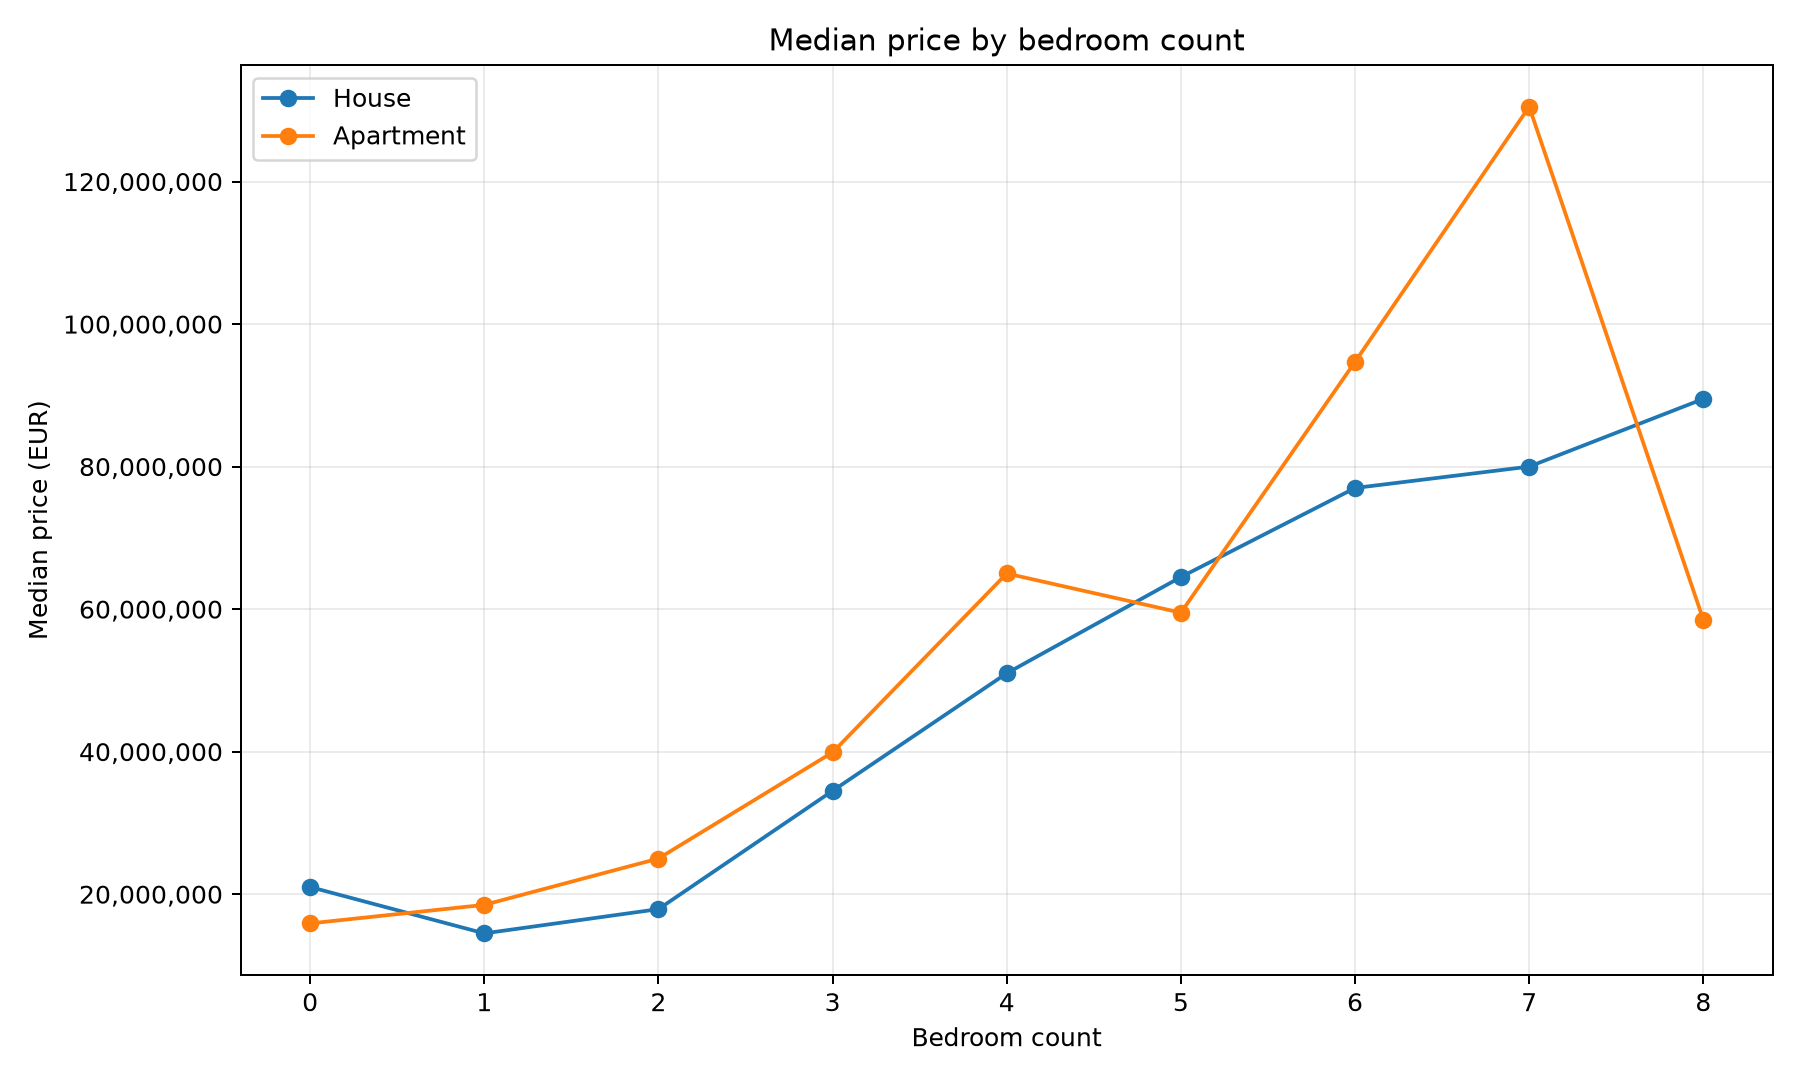
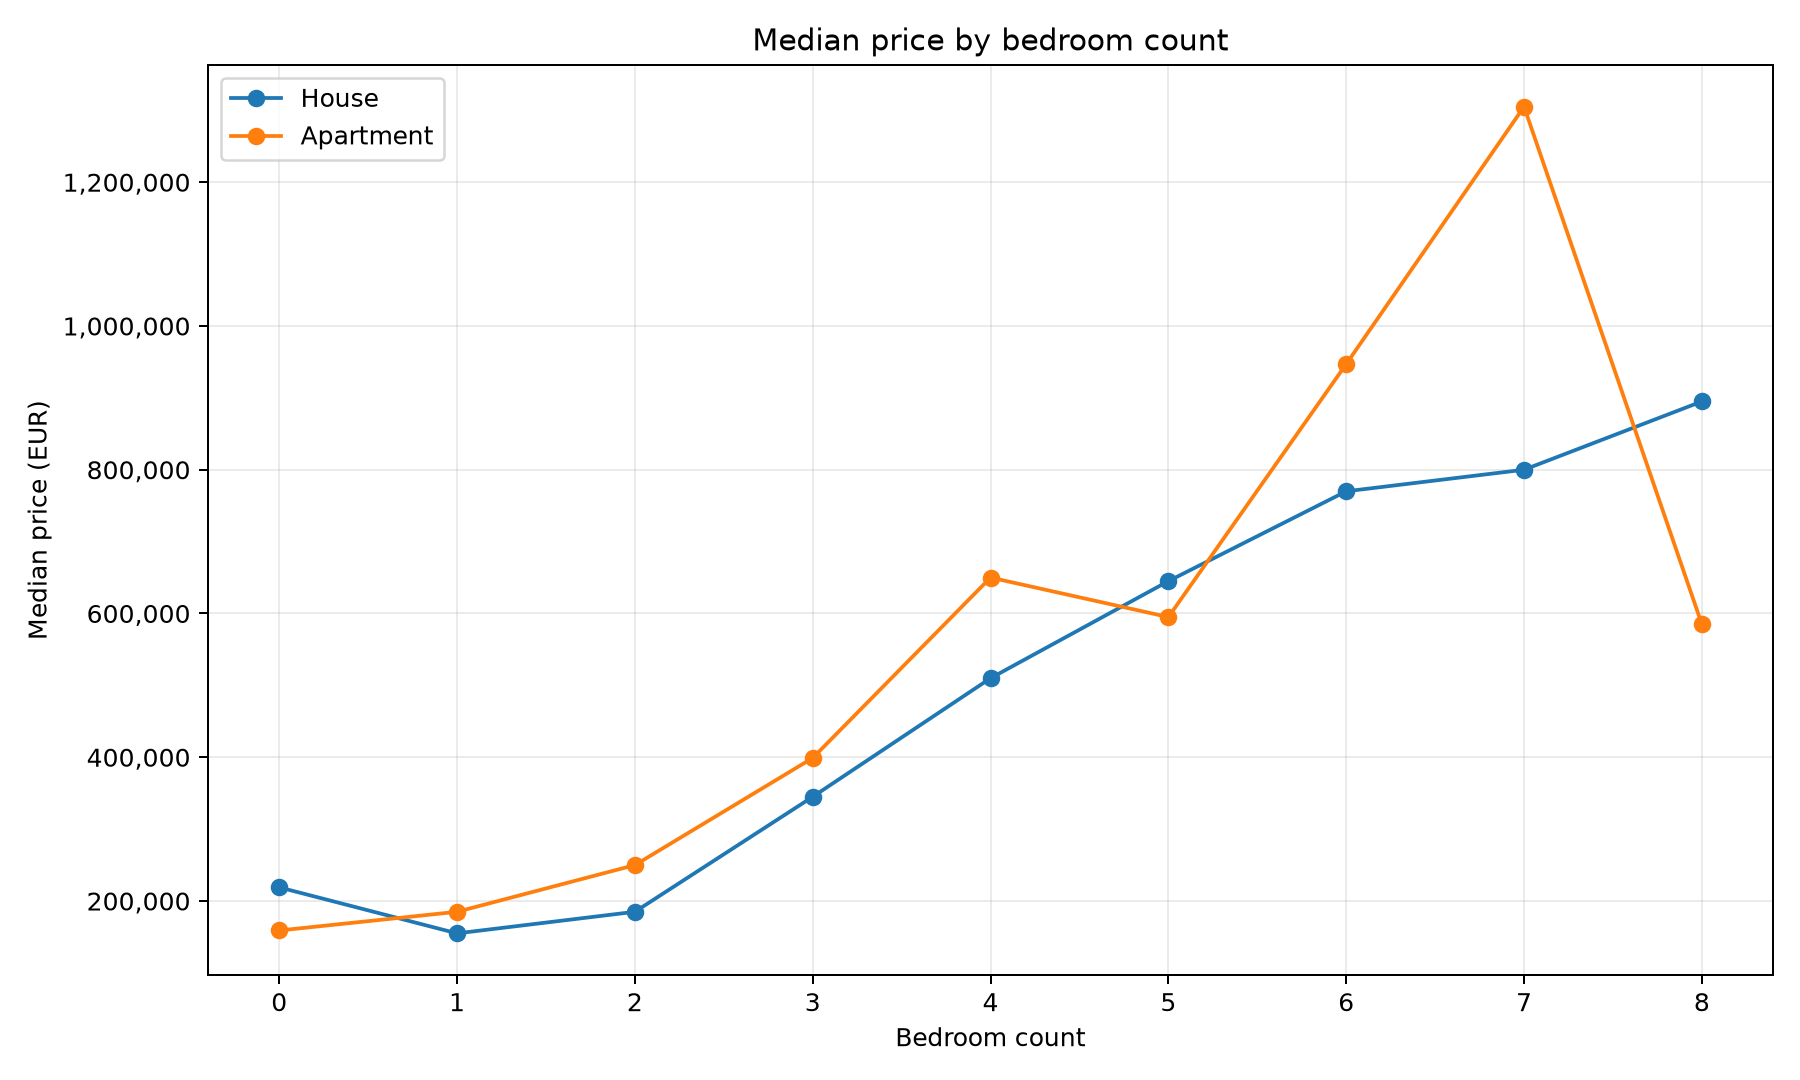
Added more graphs for creative insight

diff --git a/src/graph_price_surface_outliers.py b/src/graph_price_surface_outliers.py
@@ -1,16 +1,12 @@
 import pandas as pd
 import matplotlib.pyplot as plt
 from matplotlib.ticker import FuncFormatter
-#exemple import
-#from src.graph_price_surface_outliers import (
-    #make_price_vs_surface_graph,
-    #make_bedrooms_vs_price_graph,
-    #make_outlier_graph,
-
-
-PRICE_SURFACE_IMAGE = "../images/price_vs_livable_surface.png"
-BEDROOM_IMAGE = "../images/bedrooms_vs_price.png"
-OUTLIER_IMAGE = "../images/outlier_boxplots.png"
+PRICE_SURFACE_IMAGE = "./images/price_vs_livable_surface.png"
+BEDROOM_IMAGE = "./images/bedrooms_vs_price.png"
+OUTLIER_IMAGE = "./images/outlier_boxplots.png"
+PROPERTY_STATE_M2_IMAGE = "./images/property_state_price_per_m2.png"
+CONVENIENCE_SPACE_IMAGE = "./images/convenience_vs_space.png"
+BUILD_YEAR_M2_IMAGE = "./images/build_year_price_per_m2.png"
 
 
 def make_price_vs_surface_graph(df):
@@ -178,4 +174,228 @@ def make_outlier_graph(df):
     plt.grid(alpha=0.25, axis="x")
     plt.tight_layout()
     plt.savefig(OUTLIER_IMAGE, dpi=180)
+    plt.close()
+
+
+def make_property_state_price_m2_graph(df):
+    """Generate a bar chart of median price per M2 by property state.
+
+    Input:
+        df: pandas DataFrame with price, livable_surface, property_state, and property_type columns.
+    """
+    def euro_tick(value, _):
+        return f"{int(value):,}"
+
+    # Keep rows where we have the values needed for this graph.
+    graph_df = df[["price", "livable_surface", "property_state", "property_type"]].dropna().copy()
+
+    # Keep only positive numbers so the price per M2 calculation makes sense.
+    graph_df = graph_df[(graph_df["price"] > 0) & (graph_df["livable_surface"] > 0)]
+
+    # Price per M2 lets us compare expensive and cheap areas more fairly.
+    graph_df["price_per_m2"] = graph_df["price"] / graph_df["livable_surface"]
+
+    # Keep realistic values so one strange listing does not dominate the scale.
+    graph_df = graph_df[(graph_df["price_per_m2"] > 300) & (graph_df["price_per_m2"] < 20000)]
+
+    # Group by property state and property type.
+    # Median is useful here because a few luxury listings will not dominate the result.
+    grouped_df = (
+        graph_df.groupby(["property_state", "property_type"])["price_per_m2"]
+        .median()
+        .reset_index()
+    )
+
+    # Put the states in a logical order from worst condition to best condition.
+    order = [
+        "To be renovated",
+        "To renovate",
+        "Normal",
+        "Fully renovated",
+        "Excellent",
+        "New",
+    ]
+    grouped_df["property_state"] = pd.Categorical(
+        grouped_df["property_state"],
+        categories=order,
+        ordered=True,
+    )
+
+    # Reshape the grouped data so houses and apartments become separate bars.
+    grouped_df = grouped_df.dropna().sort_values("property_state")
+    pivot_df = grouped_df.pivot(
+        index="property_state",
+        columns="property_type",
+        values="price_per_m2",
+    )
+
+    ax = pivot_df.plot(kind="bar", figsize=(10, 6), color=["#ff7f0e", "#1f77b4"])
+    ax.set_title("Median price per M2 by property state")
+    ax.set_xlabel("Property state")
+    ax.set_ylabel("Median price per M2 (EUR)")
+    ax.yaxis.set_major_formatter(FuncFormatter(euro_tick))
+    ax.yaxis.offsetText.set_visible(False)
+    plt.xticks(rotation=35, ha="right")
+    plt.grid(alpha=0.25, axis="y")
+    plt.legend(title="Property type")
+    plt.tight_layout()
+    plt.savefig(PROPERTY_STATE_M2_IMAGE, dpi=180)
+    plt.close()
+
+
+def make_convenience_vs_space_graph(df):
+    """Generate a graph comparing supermarket distance, price per M2, and surface.
+
+    Input:
+        df: pandas DataFrame with price, livable_surface, and supermarket_distance_m columns.
+    """
+    def euro_tick(value, _):
+        return f"{int(value):,}"
+
+    # Keep rows where we have the values needed for this graph.
+    graph_df = df[["price", "livable_surface", "supermarket_distance_m"]].dropna().copy()
+
+    # Keep only positive numbers so the price per M2 calculation makes sense.
+    graph_df = graph_df[(graph_df["price"] > 0) & (graph_df["livable_surface"] > 0)]
+
+    # Price per M2 lets us compare convenience and space on a fairer basis.
+    graph_df["price_per_m2"] = graph_df["price"] / graph_df["livable_surface"]
+
+    # Keep realistic values so one strange listing does not dominate the scale.
+    graph_df = graph_df[(graph_df["price_per_m2"] > 300) & (graph_df["price_per_m2"] < 20000)]
+
+    # Split the properties into 4 groups from closest to farthest from a supermarket.
+    graph_df["distance_group"] = pd.qcut(
+        graph_df["supermarket_distance_m"],
+        4,
+        labels=["Closest", "Close", "Far", "Farthest"],
+    )
+
+    # For each distance group, keep the median price per M2, surface, and distance.
+    grouped_df = (
+        graph_df.groupby("distance_group", observed=True)
+        .agg(
+            price_per_m2=("price_per_m2", "median"),
+            livable_surface=("livable_surface", "median"),
+            distance=("supermarket_distance_m", "median"),
+        )
+        .reset_index()
+    )
+
+    fig, ax1 = plt.subplots(figsize=(10, 6))
+    ax2 = ax1.twinx()
+
+    # Bars show median price per M2.
+    ax1.bar(
+        grouped_df["distance_group"],
+        grouped_df["price_per_m2"],
+        color="#4c78a8",
+        alpha=0.8,
+        label="Median price per M2",
+    )
+
+    # The line shows median livable surface on a second axis.
+    ax2.plot(
+        grouped_df["distance_group"],
+        grouped_df["livable_surface"],
+        marker="o",
+        color="#f58518",
+        linewidth=2,
+        label="Median livable surface",
+    )
+
+    # Show the median distance on top of each bar to make the quartiles easier to read.
+    for i, row in grouped_df.iterrows():
+        ax1.text(i, row["price_per_m2"], f"{row['distance']:.0f} m", ha="center", va="bottom")
+
+    ax1.set_title("Convenience vs space")
+    ax1.set_xlabel("Distance to nearest supermarket")
+    ax1.set_ylabel("Median price per M2 (EUR)")
+    ax2.set_ylabel("Median livable surface (m2)")
+    ax1.yaxis.set_major_formatter(FuncFormatter(euro_tick))
+    ax1.yaxis.offsetText.set_visible(False)
+    ax1.grid(alpha=0.25, axis="y")
+    fig.legend(loc="upper right", bbox_to_anchor=(0.9, 0.9))
+    plt.tight_layout()
+    plt.savefig(CONVENIENCE_SPACE_IMAGE, dpi=180)
+    plt.close()
+
+
+def make_build_year_price_m2_graph(df):
+    """Generate a graph comparing build period, price per M2, and energy consumption.
+
+    Input:
+        df: pandas DataFrame with price, livable_surface, build_year, and energy_consumption_kWh/m2/year columns.
+    """
+    def euro_tick(value, _):
+        return f"{int(value):,}"
+
+    # Keep rows where we have the values needed for this graph.
+    graph_df = df[
+        ["price", "livable_surface", "build_year", "energy_consumption_kWh/m2/year"]
+    ].dropna().copy()
+
+    # Keep only rows where price, surface, and build year make sense.
+    graph_df = graph_df[
+        (graph_df["price"] > 0)
+        & (graph_df["livable_surface"] > 0)
+        & (graph_df["build_year"] >= 1800)
+        & (graph_df["build_year"] <= 2026)
+    ]
+
+    # Price per M2 lets us compare old and new properties more fairly.
+    graph_df["price_per_m2"] = graph_df["price"] / graph_df["livable_surface"]
+
+    # Keep realistic values so one strange listing does not dominate the scale.
+    graph_df = graph_df[(graph_df["price_per_m2"] > 300) & (graph_df["price_per_m2"] < 20000)]
+
+    # Group build years into broad periods so the trend is easier to read.
+    graph_df["build_period"] = pd.cut(
+        graph_df["build_year"],
+        bins=[1799, 1918, 1945, 1970, 1990, 2010, 2026],
+        labels=["<=1918", "1919-1945", "1946-1970", "1971-1990", "1991-2010", "2011+"],
+    )
+
+    # For each build period, keep the median price per M2 and median energy consumption.
+    grouped_df = (
+        graph_df.groupby("build_period", observed=True)
+        .agg(
+            price_per_m2=("price_per_m2", "median"),
+            energy=("energy_consumption_kWh/m2/year", "median"),
+        )
+        .reset_index()
+    )
+
+    fig, ax1 = plt.subplots(figsize=(10, 6))
+    ax2 = ax1.twinx()
+
+    # Bars show median price per M2.
+    ax1.bar(
+        grouped_df["build_period"],
+        grouped_df["price_per_m2"],
+        color="#4c78a8",
+        alpha=0.8,
+        label="Median price per M2",
+    )
+
+    # The line shows median energy consumption on a second axis.
+    ax2.plot(
+        grouped_df["build_period"],
+        grouped_df["energy"],
+        marker="o",
+        color="#e45756",
+        linewidth=2,
+        label="Median energy consumption",
+    )
+
+    ax1.set_title("Newer properties: higher price per M2, lower energy consumption")
+    ax1.set_xlabel("Build period")
+    ax1.set_ylabel("Median price per M2 (EUR)")
+    ax2.set_ylabel("Median energy consumption (kWh/m2/year)")
+    ax1.yaxis.set_major_formatter(FuncFormatter(euro_tick))
+    ax1.yaxis.offsetText.set_visible(False)
+    ax1.grid(alpha=0.25, axis="y")
+    fig.legend(loc="upper right", bbox_to_anchor=(0.9, 0.9))
+    plt.tight_layout()
+    plt.savefig(BUILD_YEAR_M2_IMAGE, dpi=180)
     plt.close()